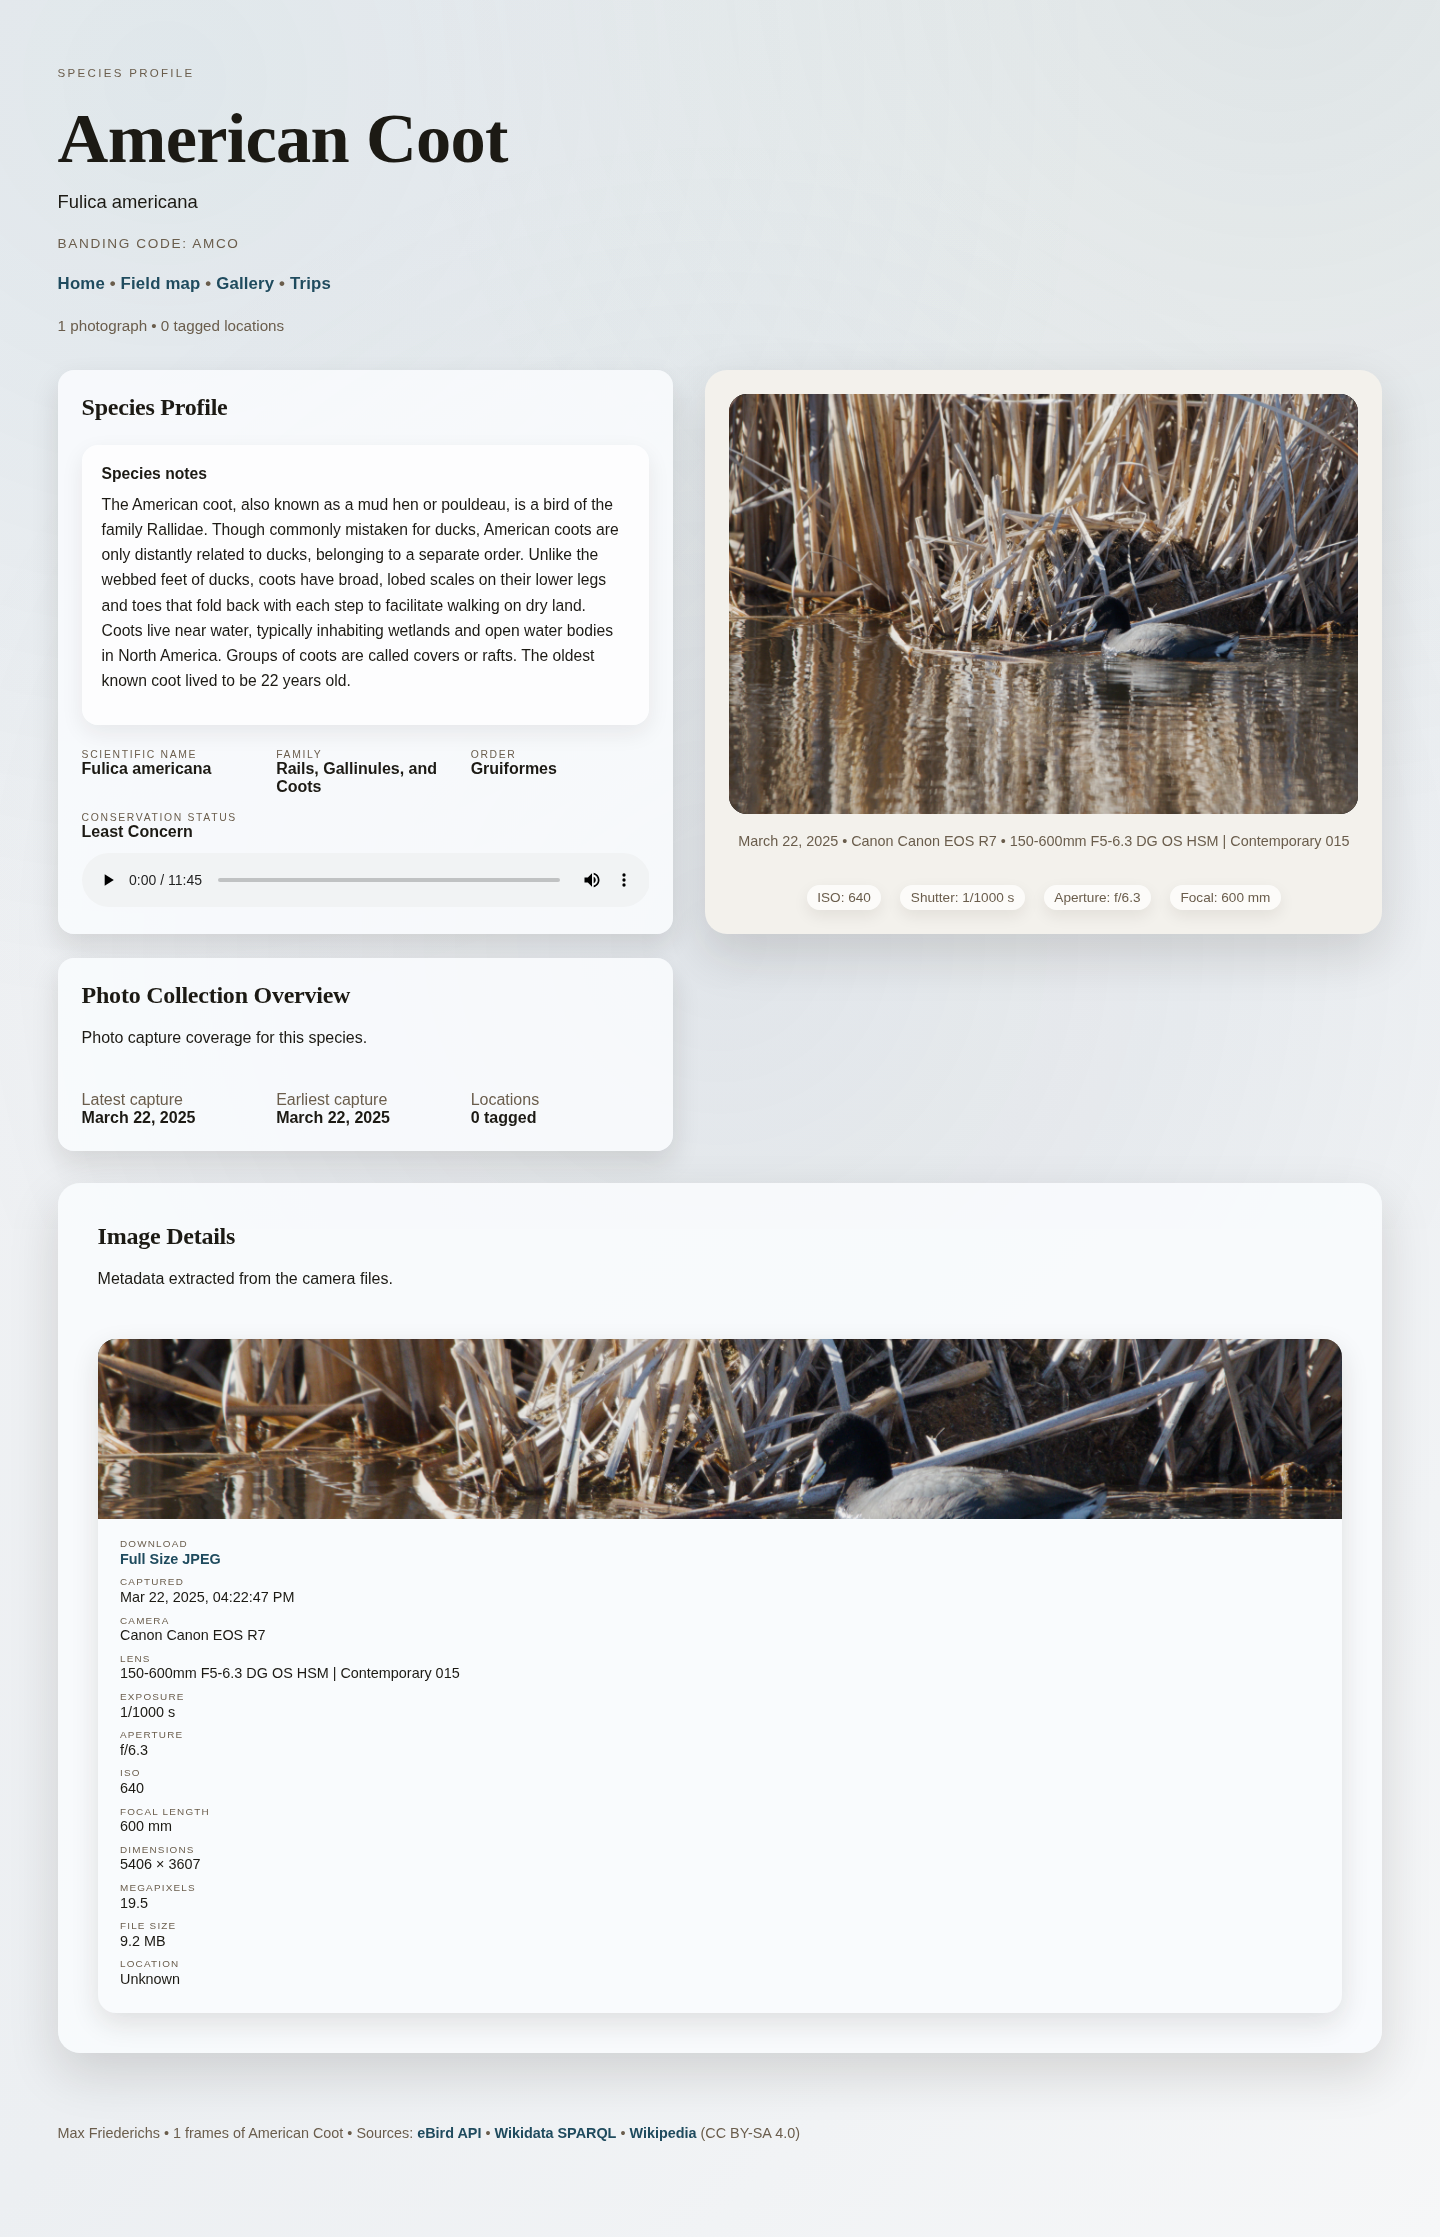
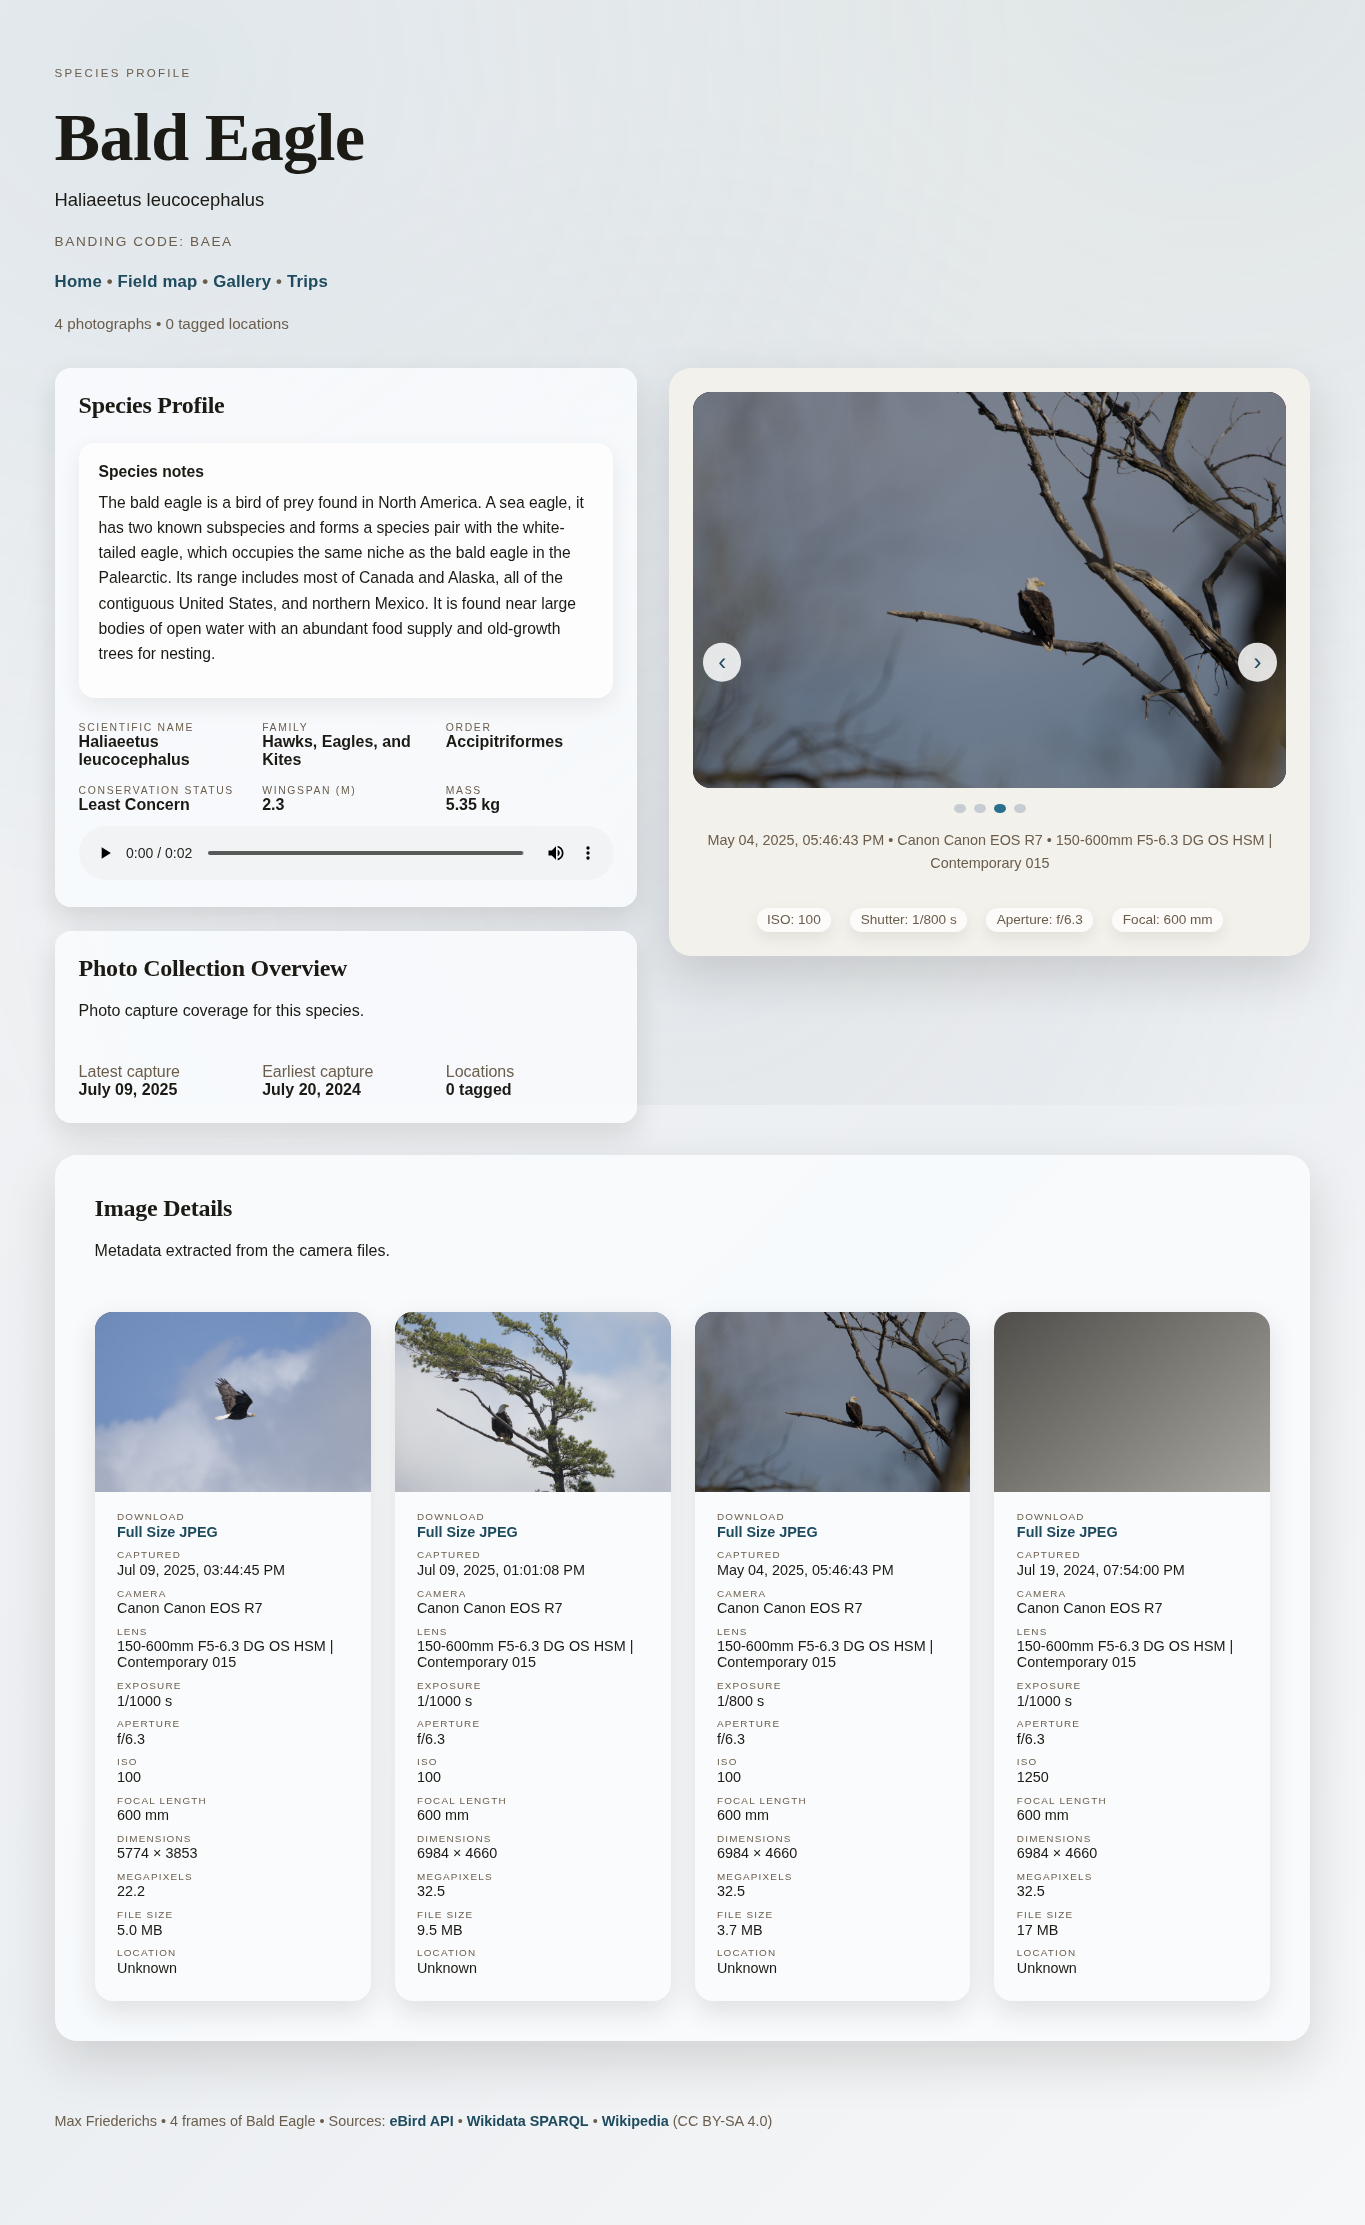
More docs

Changed region(s): [[0.0308, 0.031, 0.9538, 0.8993], [0.2769, 0.9303, 0.4923, 0.9613], [0.0615, 0.9303, 0.0923, 0.9613]]

diff --git a/README.md b/README.md
@@ -24,7 +24,7 @@ Home page:
 
 Species page:
 
-![Bird species page](docs/screenshots/species-page.png)
+![Bald Eagle species page](docs/screenshots/species-page.png)
 
 Field map page:
 
